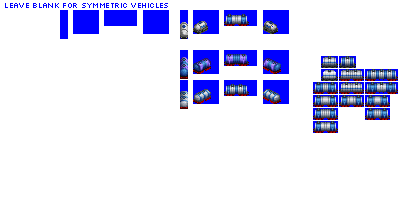
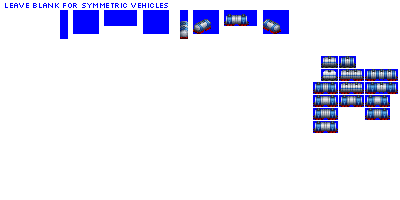
Change: sprites complete for gen 6B edibles tank car

Changed region(s): [[0.45, 0.24, 0.72, 0.57], [0.45, 0.09, 0.54, 0.21], [0.66, 0.09, 0.72, 0.18]]

diff --git a/src/vehicles/edibles_tank_cars.py b/src/vehicles/edibles_tank_cars.py
@@ -89,7 +89,8 @@ def main():
     consist = EdiblesTankCarConsist(roster='pony',
                                     base_numeric_id=2100,
                                     gen=6,
-                                    subtype='B')
+                                    subtype='B',
+                                    sprites_complete=True)
 
     consist.add_unit(type=FreightCar,
                      vehicle_length=6,
